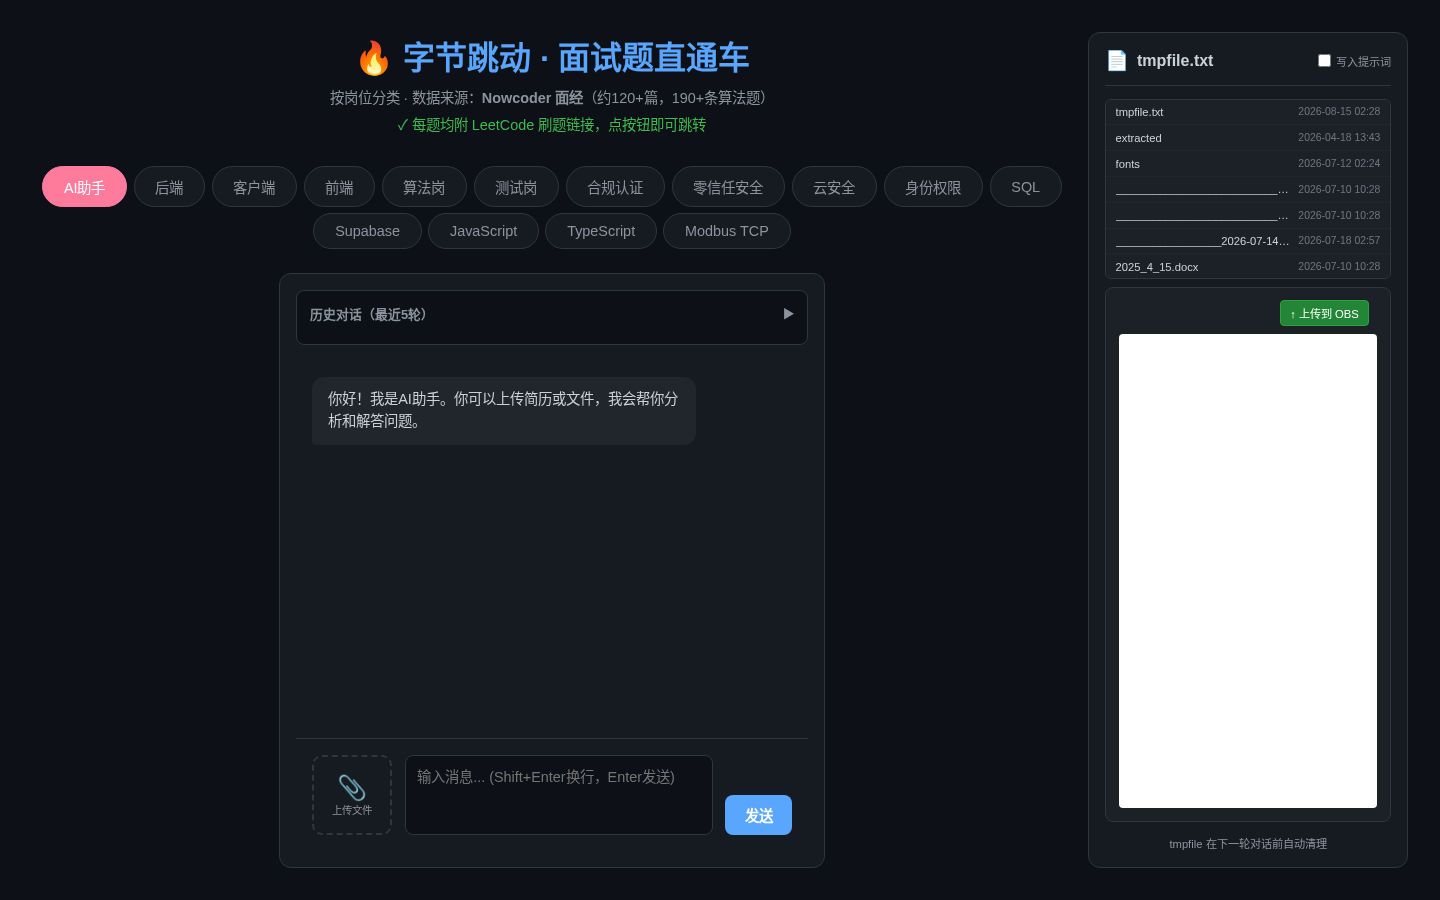
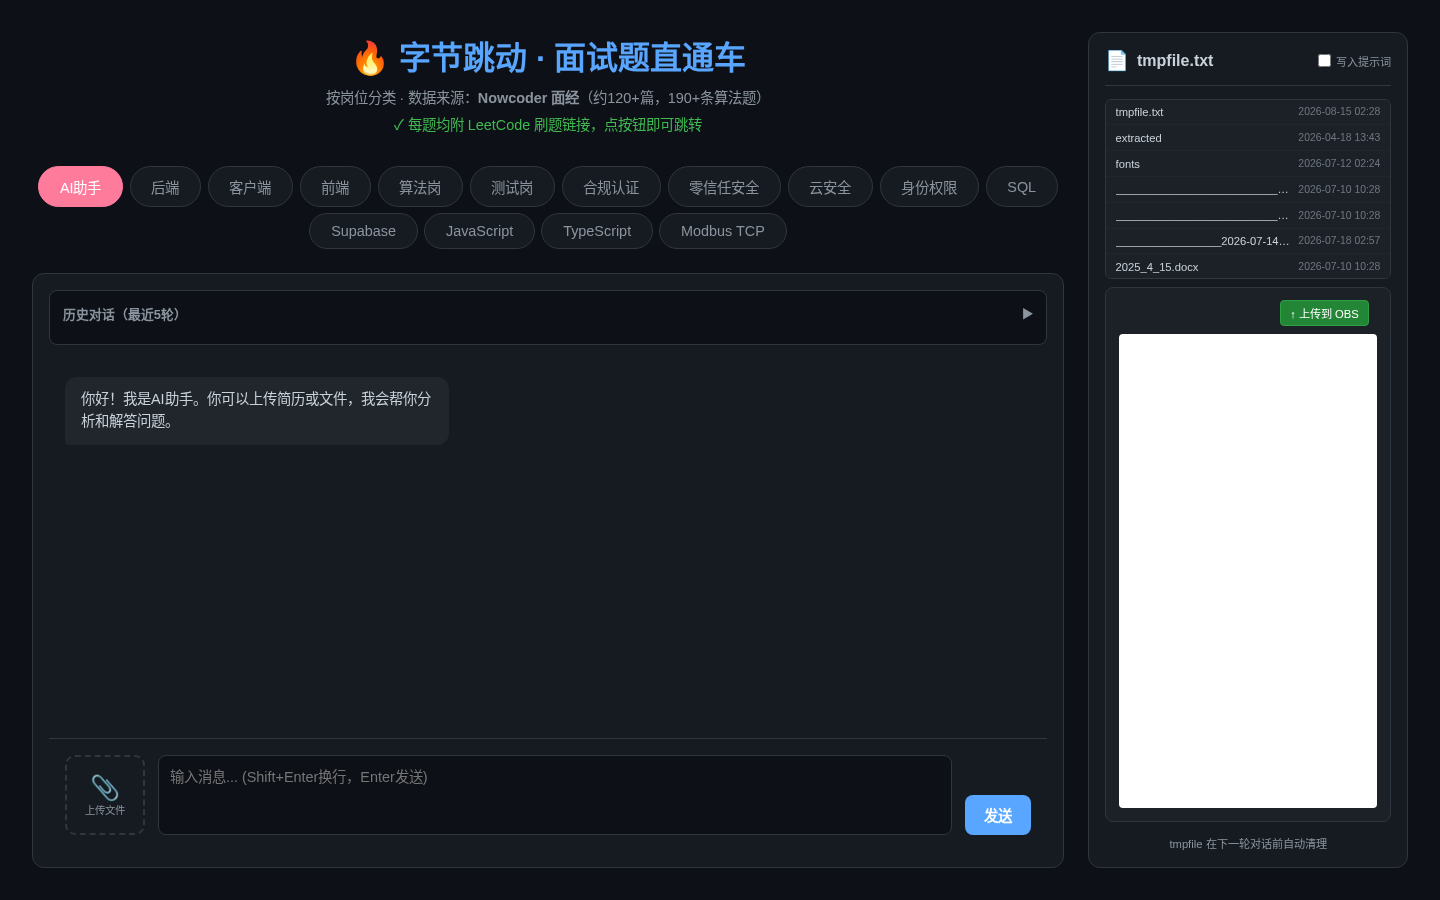
refactor(layout): AI 助手改为「两栏 app shell」，右侧预览列从顶至底
上一版用 padding-right + shrink-to-fit 导致左列内容窄且错位（标题/Tabs/对话框宽度不一致）、
Tabs 换行难看。本次按 app shell 重构：

- 左列「标题 + Tabs + 对话框」共用同一列宽（`.header/.tabs/#ai-tab-wrapper` 边缘对齐），
  移除 #ai-tab-wrapper 内联 max-width/margin（原导致 shrink-to-fit 居中）
- 整页 shell `body.ai-active{max-width:1440px;box-sizing:border-box;padding-right:376px}`，
  超宽屏不无限拉伸
- 右列 `#tmpfile-sidebar` 固定 `top/bottom:2rem`，
  `right:max(2rem,calc((100vw-1440px)/2+2rem))` 使其在任意宽度下都贴合 shell 右缘，
  与左列恒定 24px 间隙；移除其内联 height（改由 CSS 控制）
- 视口 <900px 时降级为纵向堆叠
- syncAiTabHeight() 只负责增删 body.ai-active + 重算 #chat-area 高度
- README.md / SKILL.md 更新；docs/screenshots/ 换成新布局截图
- 实测(Chromium 1920/1440/1280/1100)：header/tabs/chat 三者在各宽度下左右边缘完全对齐，
  chat.right→side.left 恒为 24px，右列 top=32、bottom=视口底-32；PDF/DOCX 预览占满整列；
  切到「后端」Tab 后 body 恢复 padding 2rem、右列隐藏

diff --git a/page.html b/page.html
@@ -45,18 +45,31 @@ body{background:var(--bg);color:var(--text);font-family:-apple-system,BlinkMacSy
 .history-time{font-size:0.7rem;color:#8b949e;white-space:nowrap;}
 .history-preview{flex:1;font-size:0.8rem;color:#c9d1d9;white-space:nowrap;overflow:hidden;text-overflow:ellipsis;}
 @keyframes pulse{0%,100%{opacity:1;}50%{opacity:0.5;}}
-/* AI 助手 tab：左侧=标题+Tabs+对话框；右侧预览列「从顶至底」贯穿整页 */
-#tab-AI助手.active{display:flex;flex-direction:column;}
-#ai-tab-wrapper{flex:1;min-height:0;align-items:stretch;}
-#chat-area{min-height:360px;}
-/* 激活 AI 助手时：给固定右侧预览列让出空间（320 侧栏 + 2rem 右距 + 间隙），
-   并把 #tmpfile-sidebar 钉在视口右侧，top/bottom 均为 2rem → 顶底贯通 */
-body.ai-active{padding-right:368px;}
-body.ai-active #tmpfile-sidebar{
-  position:fixed;top:2rem;right:2rem;bottom:2rem;left:auto;
-  width:320px;height:auto;max-height:none;margin:0;z-index:30;
+/* ===== AI 助手 Tab 布局：左侧「标题 + Tabs + 对话框」，右侧预览列「从顶至底」 =====
+   整页是一个居中的 app shell（超宽屏不无限拉伸）：左列占满剩余宽度，
+   右列 #tmpfile-sidebar 钉在 shell 右缘、自视口顶部贯通到底部。
+   由 JS 按当前 Tab 增删 body.ai-active 来开/关该布局。 */
+#tab-AI助手.active{display:flex;flex-direction:column;min-height:0;}
+#ai-tab-wrapper{display:flex;flex:1;min-height:0;}
+#chat-area{flex:1;min-width:0;min-height:360px;}
+
+body.ai-active{
+  box-sizing:border-box;
+  max-width:1440px;margin:0 auto;
+  padding-right:376px;   /* 320 右列 + 2rem 右距 + 1.5rem 间隙，让给右列 */
 }
-</style></head><body class=ai-active><div class=header><h1>&#128293; 字节跳动 · 面试题直通车</h1><p>按岗位分类 · 数据来源：<strong>Nowcoder 面经</strong>（约120+篇，190+条算法题）</p><p style="margin-top:0.4rem;color:#3fb950;">&#10003; 每题均附 LeetCode 刷题链接，点按钮即可跳转</p></div><div class=tabs id=mainTabs><button class=tab-btn active style="background:#ff7b9c;border-color:#ff7b9c;color:#fff" data-tab="AI助手" onclick="switchTab(this)">AI助手</button><button class=tab-btn style="" data-tab="后端" onclick="switchTab(this)">后端</button><button class=tab-btn style="" data-tab="客户端" onclick="switchTab(this)">客户端</button><button class=tab-btn style="" data-tab="前端" onclick="switchTab(this)">前端</button><button class=tab-btn style="" data-tab="算法岗" onclick="switchTab(this)">算法岗</button><button class=tab-btn style="" data-tab="测试岗" onclick="switchTab(this)">测试岗</button><button class=tab-btn style="" data-tab="合规认证" onclick="switchTab(this)">合规认证</button><button class=tab-btn style="" data-tab="零信任安全" onclick="switchTab(this)">零信任安全</button><button class=tab-btn style="" data-tab="云安全" onclick="switchTab(this)">云安全</button><button class=tab-btn style="" data-tab="身份权限" onclick="switchTab(this)">身份权限</button><button class=tab-btn style="" data-tab="SQL" onclick="switchTab(this)">SQL</button><button class=tab-btn style="" data-tab="Supabase" onclick="switchTab(this)">Supabase</button><button class=tab-btn style="" data-tab="JavaScript" onclick="switchTab(this)">JavaScript</button><button class=tab-btn style="" data-tab="TypeScript" onclick="switchTab(this)">TypeScript</button><button class=tab-btn style="" data-tab="ModbusTCP" onclick="switchTab(this)">Modbus TCP</button></div><div id=tab-AI助手 class="tab-content active"><div id=ai-tab-wrapper style="display:flex;gap:1rem;max-width:1200px;margin:0 auto;align-items:stretch;">
+body.ai-active #tmpfile-sidebar{
+  position:fixed;top:2rem;bottom:2rem;left:auto;
+  width:320px;height:auto;max-height:none;margin:0;z-index:30;
+  /* 超宽屏时 shell 居中，右列随之贴合 shell 右缘（与左列始终 1.5rem 间隙） */
+  right:max(2rem, calc((100vw - 1440px) / 2 + 2rem));
+}
+@media (max-width:900px){
+  body.ai-active{max-width:none;padding:1rem;}
+  body.ai-active #tmpfile-sidebar{position:static;width:auto;height:auto;margin-top:1rem;}
+  body.ai-active #ai-tab-wrapper{flex-direction:column;}
+}
+</style></head><body class=ai-active><div class=header><h1>&#128293; 字节跳动 · 面试题直通车</h1><p>按岗位分类 · 数据来源：<strong>Nowcoder 面经</strong>（约120+篇，190+条算法题）</p><p style="margin-top:0.4rem;color:#3fb950;">&#10003; 每题均附 LeetCode 刷题链接，点按钮即可跳转</p></div><div class=tabs id=mainTabs><button class=tab-btn active style="background:#ff7b9c;border-color:#ff7b9c;color:#fff" data-tab="AI助手" onclick="switchTab(this)">AI助手</button><button class=tab-btn style="" data-tab="后端" onclick="switchTab(this)">后端</button><button class=tab-btn style="" data-tab="客户端" onclick="switchTab(this)">客户端</button><button class=tab-btn style="" data-tab="前端" onclick="switchTab(this)">前端</button><button class=tab-btn style="" data-tab="算法岗" onclick="switchTab(this)">算法岗</button><button class=tab-btn style="" data-tab="测试岗" onclick="switchTab(this)">测试岗</button><button class=tab-btn style="" data-tab="合规认证" onclick="switchTab(this)">合规认证</button><button class=tab-btn style="" data-tab="零信任安全" onclick="switchTab(this)">零信任安全</button><button class=tab-btn style="" data-tab="云安全" onclick="switchTab(this)">云安全</button><button class=tab-btn style="" data-tab="身份权限" onclick="switchTab(this)">身份权限</button><button class=tab-btn style="" data-tab="SQL" onclick="switchTab(this)">SQL</button><button class=tab-btn style="" data-tab="Supabase" onclick="switchTab(this)">Supabase</button><button class=tab-btn style="" data-tab="JavaScript" onclick="switchTab(this)">JavaScript</button><button class=tab-btn style="" data-tab="TypeScript" onclick="switchTab(this)">TypeScript</button><button class=tab-btn style="" data-tab="ModbusTCP" onclick="switchTab(this)">Modbus TCP</button></div><div id=tab-AI助手 class="tab-content active"><div id=ai-tab-wrapper style="display:flex;gap:1rem;">
 <div id=chat-area style="flex:1;background:#161b22;border:1px solid #30363d;border-radius:12px;padding:1rem;height:calc(100vh - 200px);display:flex;flex-direction:column;">
 <div id=history-section class=history-section style="display:none;">
 <h3 style="cursor:pointer;display:flex;align-items:center;justify-content:space-between;" onclick="toggleHistory()">
@@ -83,7 +96,7 @@ body.ai-active #tmpfile-sidebar{
 <span style="animation:pulse 1.5s infinite;">AI 思考中...</span>
 </div>
 </div>
-<div id=tmpfile-sidebar style="width:320px;background:#161b22;border:1px solid #30363d;border-radius:12px;padding:1rem;height:calc(100vh - 200px);display:flex;flex-direction:column;flex-shrink:0;">
+<div id=tmpfile-sidebar style="width:320px;background:#161b22;border:1px solid #30363d;border-radius:12px;padding:1rem;display:flex;flex-direction:column;flex-shrink:0;">
 <div style="display:flex;align-items:center;gap:0.5rem;margin-bottom:0.8rem;padding-bottom:0.8rem;border-bottom:1px solid #30363d;">
 <span style="font-size:1.2rem;">&#128196;</span>
 <span style="font-size:1rem;font-weight:600;color:#c9d1d9;">tmpfile.txt</span>
@@ -672,8 +685,6 @@ function syncAiTabHeight(){
      非 AI 助手 tab 时移除类，避免影响其它 tab 布局 */
   document.body.classList.toggle("ai-active", active);
   if(!active) return;
-  var side = document.getElementById("tmpfile-sidebar");
-  if(side) side.style.height = ""; /* 清掉旧的 calc(100vh - 200px)，让 fixed 的 top/bottom 生效 */
   var chat = document.getElementById("chat-area");
   if(chat){
     var top = wrap.getBoundingClientRect().top; /* 视口坐标：无需加 scrollY */

diff --git a/SKILL.md b/SKILL.md
@@ -17,7 +17,7 @@ version: v3.8.4 (2026-10-06)
 4. **面试辅导** — 知识点串联、LeetCode 刷题、面试技巧
 5. **文件预览** — PDF（base64 iframe）/ DOCX（mammoth → iframe `srcdoc`，保留表格 / 列表 / 内联图）/ TXT（`<pre>`）/ 其他二进制提示；预览区右上角可一键「↑ 上传到 OBS」
 6. **对话持久化** — `uploads/dialogs/dialog_<ts>_<hex>.json`，每次恢复最近 5 轮
-7. **右侧预览列「从顶至底」** — AI 助手 Tab 下 `#tmpfile-sidebar` 由 CSS `body.ai-active` 设为 `position:fixed`（`top/bottom:2rem`），自页面顶部贯通到底部，PDF / DOCX 预览 iframe 占满整列；左侧为标题 + Tabs + 对话框。`syncAiTabHeight()`（顶层函数，page.html）在切换 Tab 时增删 `body.ai-active` 并重算 `#chat-area` 高度，`resize` / `load` 时重算；其它 Tab 布局不受影响
+7. **两栏 app shell（右侧预览列「从顶至底」）** — AI 助手 Tab 下整页为居中 shell（`max-width:1440px`）：左侧「标题 + Tabs + 对话框」三者同宽对齐、`#chat-area` 撑到底部；右侧 `#tmpfile-sidebar` 由 `body.ai-active` 设为 `position:fixed`（`top/bottom:2rem`，`right:max(2rem,calc((100vw-1440px)/2+2rem))`）钉在 shell 右缘、自视口顶部贯通到底部，与左列恒定 24px 间隙，PDF / DOCX 预览 iframe 占满整列。`syncAiTabHeight()`（顶层函数，page.html）切 Tab 时增删 `body.ai-active` 并重算 `#chat-area` 高度，`resize` / `load` 重算；其它 Tab 不受影响（`<900px` 纵向堆叠）
 
 ## 用户基本信息（机器可识别）
 

diff --git a/README.md b/README.md
@@ -31,7 +31,9 @@
 - 对话持久化（`uploads/dialogs/`）
 - 历史对话默认显示最近 5 轮
 - tmpfile 侧边栏实时显示 prompt 上下文
-- **右侧预览列「从顶至底」**：AI 助手 Tab 下 `#tmpfile-sidebar` 用 `position:fixed`（`top/bottom: 2rem`）钉在视口右侧，从页面顶部贯通到底部，PDF / DOCX 预览 iframe 随之占满整列；左侧为标题 + Tabs + 对话框（`#chat-area` 撑到底部）。切 Tab 时 `syncAiTabHeight()` 增删 `body.ai-active`（右侧让出 368px 并重算高度），`resize` / `load` 自动重算；其它 Tab 不受影响
+- **两栏 app shell：右侧预览列「从顶至底」**：AI 助手 Tab 下整页是一个居中的 shell（`max-width:1440px`，超宽屏不无限拉伸）。左侧「标题 + Tabs + 对话框」共用同一列宽（三者左右边缘对齐，`#chat-area` 撑到底部）；右侧 `#tmpfile-sidebar` 用 `position:fixed`（`top/bottom:2rem`）钉在 shell 右缘、自视口顶部贯通到底部，与左列恒定 24px 间隙，PDF / DOCX 预览 iframe 占满整列。
+  - 实现：`body.ai-active{padding-right:376px}` 给右列留位；右列 `right:max(2rem,calc((100vw - 1440px)/2 + 2rem))` 令其在超宽屏下仍贴合 shell 右缘。
+  - 切 Tab 时 `syncAiTabHeight()`（page.html 顶层函数）按状态增删 `body.ai-active` 并重算 `#chat-area` 高度，`resize` / `load` 自动重算；其它 Tab 布局完全不受影响（`<900px` 时降级为纵向堆叠）。
 - 布局截图见 `docs/screenshots/`
 
 ### 辅助能力
